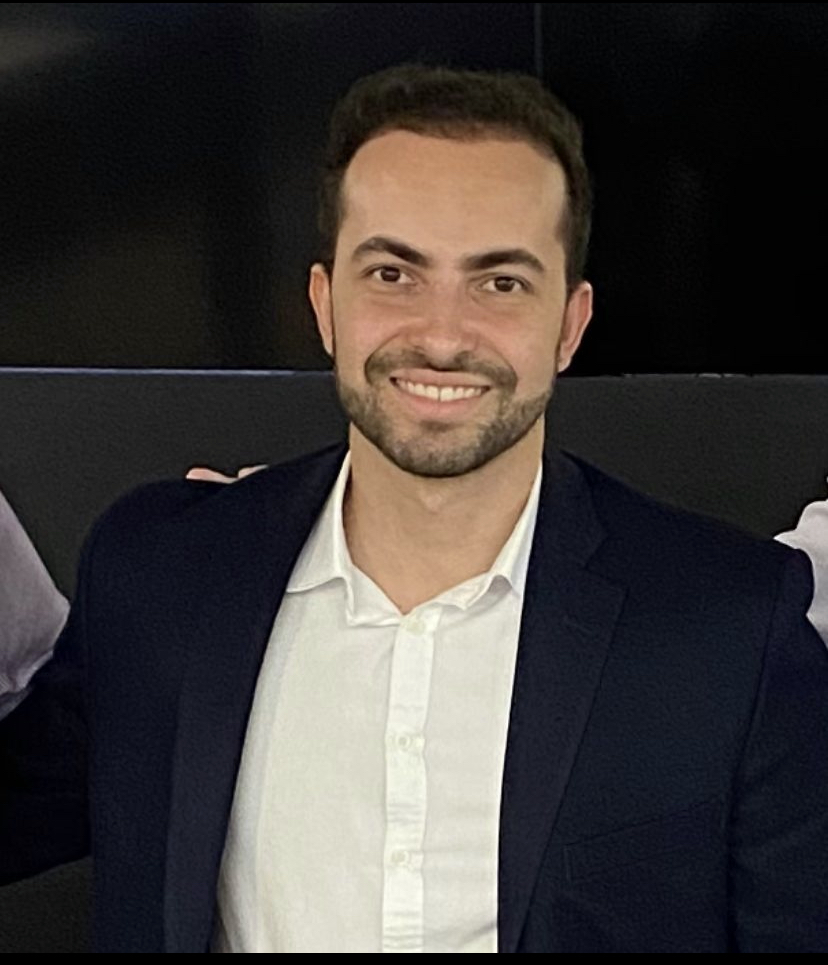
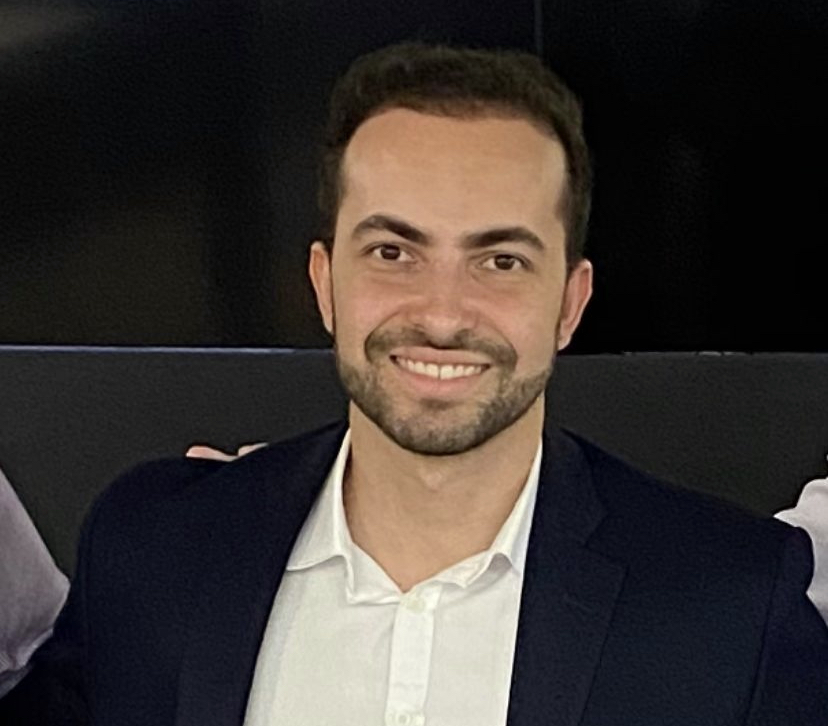
Atualizando palestrantes

Changed region(s): [[0.0, 0.1212, 1.0, 1.0], [0.5133, 0.0606, 0.5737, 0.0909]]

diff --git a/data/schedule.js b/data/schedule.js
@@ -11,7 +11,7 @@ import Lecture06_LeonardoSartorello from '../public/images/lecture_imgs/06-Leona
 import Lecture07_PedroCaraca from '../public/images/lecture_imgs/07-Pedro_Caraca.png'
 import Lecture08_PedroSemcovici from '../public/images/lecture_imgs/08-Pedro_Semcovici.jpg'
 import Lecture08_YagoPrimerano from '../public/images/lecture_imgs/08-Yago_Primerano.jpg'
-// import Lecture09_BrunoColisse from '../public/images/lecture_imgs/09-Nome_Sobrenome.png'
+import Lecture09_BrunoColisse from '../public/images/lecture_imgs/09-Bruno_Colisse.jpeg'
 import Lecture09_MateusBrandao from '../public/images/lecture_imgs/09-Mateus_Brandao.png'
 import Lecture10_JeffBrandao from '../public/images/lecture_imgs/10-Jeff_Brandao.jpeg'
 import Lecture10_KarolyneViebrantz from '../public/images/lecture_imgs/10-Karolyne_Viebrantz.png'
@@ -19,7 +19,8 @@ import Lecture10_RodrigoMulinario from '../public/images/lecture_imgs/10-Rodrigo
 import Lecture11_LuliRadfahrer from '../public/images/lecture_imgs/11-Luli_Radfahrer.jpg'
 import Lecture12_AnaSampaio from '../public/images/lecture_imgs/12-Ana_Sampaio.png'
 import Lecture13_FelipeGigante from '../public/images/lecture_imgs/13-Felipe_Gigante.png'
-// import Lecture14_NomeSobrenome from '../public/images/lecture_imgs/14-Nome_Sobrenome.png'
+import Lecture14_FelippeOliveira from '../public/images/lecture_imgs/14-Felippe_Oliveira.jpg'
+import Lecture14_AmandaFerreira from '../public/images/lecture_imgs/14-Amanda_Ferreira.jpg'
 import Lecture15_EmilioSimoni from '../public/images/lecture_imgs/15-Emilio_Simoni.png'
 // import Lecture16_NomeSobrenome from '../public/images/lecture_imgs/16-Nome_Sobrenome.png'
 import Lecture17_DaviBaptista from '../public/images/lecture_imgs/17-Davi_Baptista.png'
@@ -315,10 +316,10 @@ const schedule = {
             sponsor: { // opcional
                 'name': 'Kluber Lubrication',
                 'image': KluberLogo,
-                // 'url': 'https://www.instagram.com/semanadesi',
+                'url': 'https://www.klueber.com/br/pt/',
             },
-            title : 'Em breve...',
-            // description : 'Descrição da palestra',
+            title : 'O que fazer no meu tempo livre após a IA substituir meu trabalho?',
+            description : 'Já pensou que a IA pode melhorar em tudo que ela ainda não faz bem? As profissões vão mudar muito em 5/10 anos, com a IA criando vídeos, músicas e até programando melhor que a gente. O que sobra pra nós? Sermos humanos! Vamos discutir nosso papel na tecnologia, onde o "fazer" é menos importante que o "o que" e "como". Além do que aprendemos na faculdade, o que fazemos fora do trabalho também conta muito!',
             local : 'presential',// presential ou online
             endTime : '12:00',
             activityType : '',// se não for 'Workshop', deixar vazio
@@ -327,10 +328,10 @@ const schedule = {
                     'name': 'Bruno Colisse',
                     'pronouns': 'Ele/Dele',
                     'role': 'Especialista em Digitalização',
-                    // 'description': 'Descrição do palestrante',
+                    'description': 'Programador, músico e pai, graduado em Ciência da Computação e cursando MBA em A.I. Business Leadership. Atua com digitalização, como Tech Business, interface entre as áreas de negócio e área de tecnologia da informação. Otaku sênior.',
                     // 'instagram': 'https://www.instagram.com/semanadesi',// opcional
-                    // 'linkedin' : 'https://www.linkedin.com/in/nome-do-palestrante/',// opcional
-                    'image': Lecture00_NomeSobrenome
+                    'linkedin' : 'https://www.linkedin.com/in/bruno-colisse-00b848b8/',// opcional
+                    'image': Lecture09_BrunoColisse
                 },
                 {
                     'name': 'Mateus Brandão',
@@ -459,21 +460,49 @@ const schedule = {
             endTime : '19:00',
         },
         '19:00' : {
-            title : 'Em breve...',
-            description : '',
+            sponsor: { // opcional
+                'name': 'SSI Talks',
+                'image': SSITalksLogo,
+                'url': 'https://www.instagram.com/semanadesi',
+            },
+            title : 'Notion: Tecnologia e Organização Pessoal',
+            description : 'A palestra "Notion: Tecnologia e Organização Pessoal para Estudantes" explora como o Notion pode otimizar a vida acadêmica. Com foco em metas, tarefas, projetos, hábitos e controle financeiro, será mostrado como estudantes podem usar essa ferramenta para aumentar a produtividade e gerenciar suas rotinas de forma integrada. A palestra também conecta a importância da tecnologia com uma abordagem mais ampla de realidade e autoconhecimento, essencial para o sucesso pessoal e acadêmico.',
+            local : 'presential',// presential ou online
+            endTime : '19:30',
+            activityType : '',// se não for 'Workshop', deixar vazio
+            speakers : [
+                {
+                    'name': 'Felippe Oliveira',
+                    'pronouns': 'Ele/Dele',
+                    'role': 'Estagiário',
+                    'description': 'Felippe é um entusiasta do desenvolvimento pessoal e da tecnologia. Ele une suas experiências com estratégias de negócios e automação para criar soluções no campo do bem-estar e produtividade. Trabalha na área de estratégia de clientes da Caixa Vida e Previdência, enquanto desenvolve plataformas digitais e integra inteligência artificial. Também compartilha reflexões sobre estilo de vida, meditação e gestão de tempo, promovendo equilíbrio e crescimento contínuo.',
+                    // 'instagram': 'https://www.instagram.com/semanadesi',// opcional
+                    'linkedin' : 'https://www.linkedin.com/in/felippe-oliveira-8084651bb/',// opcional
+                    'image': Lecture14_FelippeOliveira
+                },
+            ],
+        },
+        '19:30' : {
+            sponsor: { // opcional
+                'name': 'SSI Talks',
+                'image': SSITalksLogo,
+                'url': 'https://www.instagram.com/semanadesi',
+            },
+            title : 'Para além da USP: navegando em um mar de possibilidades',
+            description : 'Ao longo da palestra serão abordadas oportunidades que existem dentro e fora da USP e como conciliar o estudo com as atividades extracurriculares',
             local : 'presential',// presential ou online
             endTime : '20:00',
             activityType : '',// se não for 'Workshop', deixar vazio
             speakers : [
-                // {
-                //     'name': 'Nome do palestrante',
-                //     'pronouns': 'Ele/Dele',
-                //     'role': 'Cargo',
-                //     'description': 'Descrição do palestrante',
-                //     'instagram': 'https://www.instagram.com/semanadesi',// opcional
-                //     'linkedin' : 'https://www.linkedin.com/in/nome-do-palestrante/',// opcional
-                //     'image': Lecture14_NomeSobrenome
-                // },
+                {
+                    'name': 'Amanda Ferreira',
+                    'pronouns': 'Ela/Dela',
+                    'role': 'Estagiária e co-fundadora da Owl Studio',
+                    'description': 'Nascida e criada na periferia da zona norte de São Paulo, fui começar a ter contato com a área tech em 2020, quando entrei no curso técnico em informática integrado ao ensino médio no IFSP. Em 2022 consegui meu primeiro estágio, e poucos meses depois entrei no meu 2° estágio na área. Em 2023 fundei, junto com mais 2 amigos, a Owl Studio, com a qual participamos de uma aceleração de 6 meses da prefeitura de São Paulo, o que nos rendeu a oportunidade de ir na Gamescom Alemanha.',
+                    'instagram': 'https://www.instagram.com/amandita_ferre/',// opcional
+                    'linkedin' : 'https://www.linkedin.com/in/amandamariafs',// opcional
+                    'image': Lecture14_AmandaFerreira
+                },
             ],
         },
         '20:00' : {
@@ -1022,8 +1051,8 @@ const schedule = {
                     'name': 'Sofia Ferreira',
                     'pronouns': 'Ela/Dela',
                     // 'role': 'Notion Campus Leader',
-                    // 'description': 'Descrição do palestrante',
-                    'instagram': 'https://www.instagram.com/notionatusp/',// opcional
+                    'description': 'Oi, eu sou a Sofia e sou voluntária no Lab das Minas, bolsista no PET e Campus Leader do Notion aqui na USP!',
+                    // 'instagram': 'https://www.instagram.com/notionatusp/',// opcional
                     // 'linkedin' : 'https://www.linkedin.com/in/nome-do-palestrante/',// opcional
                     'image': Lecture00_NomeSobrenome
                 },
